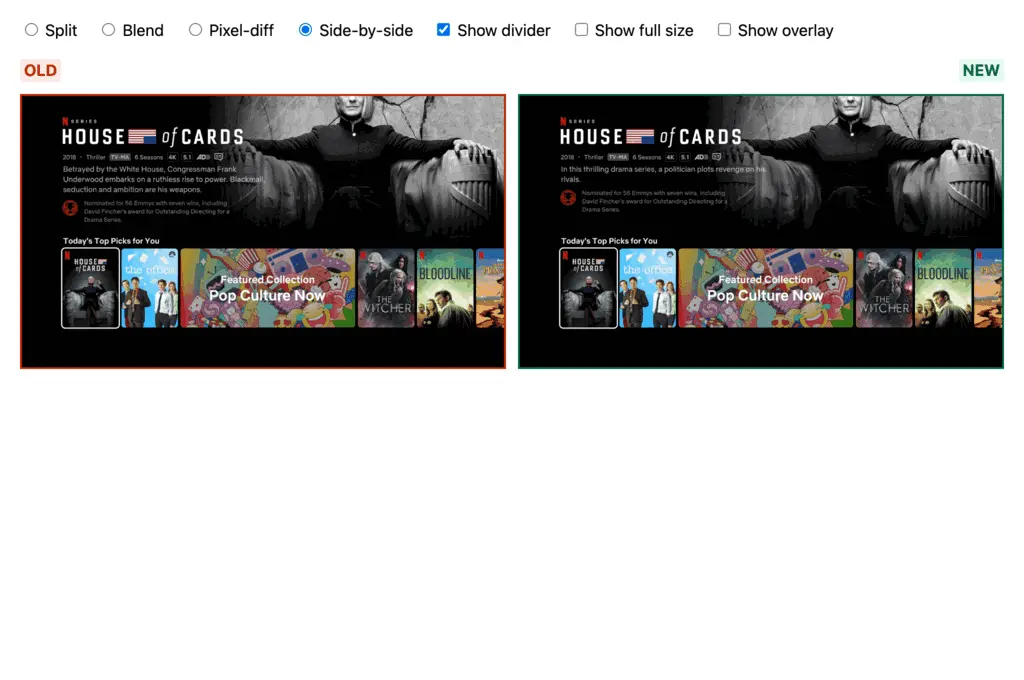
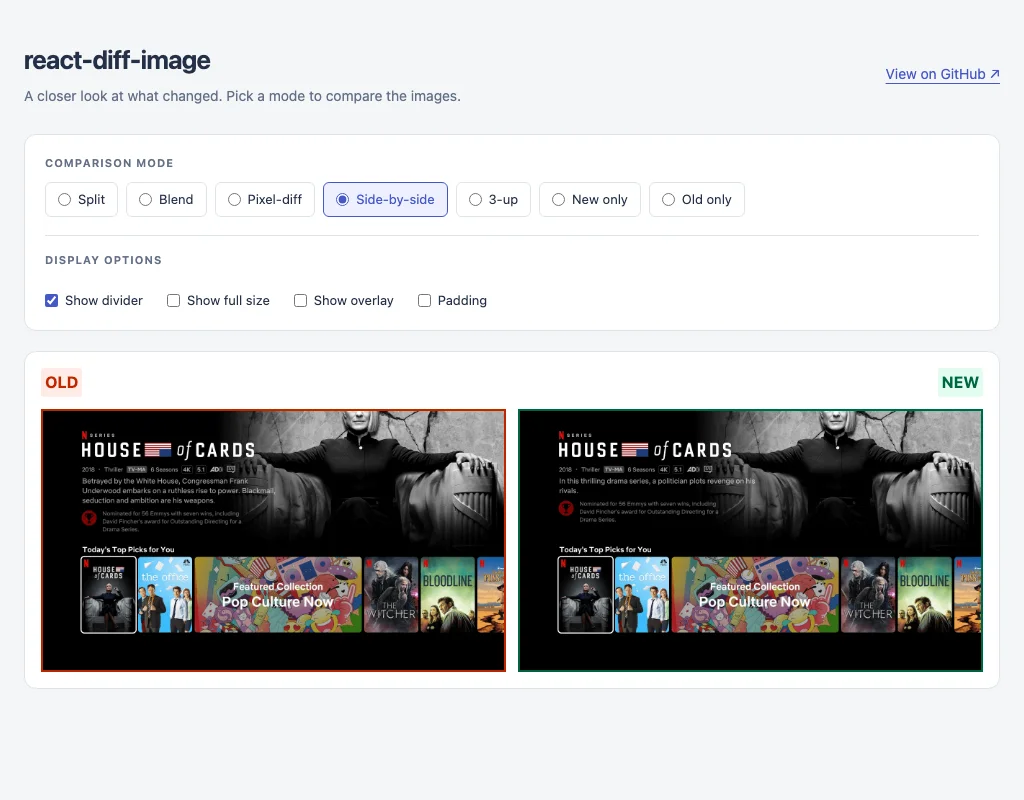
style: polish demo and refresh screenshots (#7)
Add a compact header, grouped comparison controls, and a subtle frame to
the demo. The layout adapts to narrow screens and the system color
scheme, with full-size images scrolling inside the preview.

Refresh all eleven README screenshots and add `perf/screenshots.mjs` to
regenerate them with Playwright and cwebp.

Validation: demo build, TypeScript, lint, formatting, all seven browser
tests, and screenshot generation with mobile overflow checks passed. The
required pre-push matrix also passed across Node 24 and 26 and React
16.14, 17, and 18.

diff --git a/src/demo/index.tsx b/src/demo/index.tsx
@@ -14,70 +14,86 @@ document.addEventListener("DOMContentLoaded", () => {
 function App() {
     const [config, setConfig] = useState<Omit<ImageDiffProps, "url">>(DEFAULT_PROPS);
     return (
-        <div>
-            <div style={{ display: "flex", flexWrap: "wrap", gap: 20, marginBottom: 20, whiteSpace: "nowrap" }}>
-                {(
-                    [
-                        ...MODES,
-                        { label: "New only", value: "new-only" },
-                        { label: "Old only", value: "old-only" },
-                    ] satisfies typeof MODES
-                ).map(({ label, value }) => (
-                    <label key={value}>
+        <main className="demo">
+            <header className="demo-header">
+                <div>
+                    <h1>react-diff-image</h1>
+                    <p>A closer look at what changed. Pick a mode to compare the images.</p>
+                </div>
+                <a href="https://github.com/ianobermiller/react-diff-image">View on GitHub ↗</a>
+            </header>
+
+            <div className="demo-controls">
+                <fieldset className="demo-modes">
+                    <legend>Comparison mode</legend>
+                    {(
+                        [
+                            ...MODES,
+                            { label: "New only", value: "new-only" },
+                            { label: "Old only", value: "old-only" },
+                        ] satisfies typeof MODES
+                    ).map(({ label, value }) => (
+                        <label className="demo-mode" key={value}>
+                            <input
+                                checked={config.mode === value}
+                                name="mode"
+                                onChange={() => {
+                                    setConfig((prev) => ({ ...prev, mode: value }));
+                                }}
+                                type="radio"
+                            />{" "}
+                            {label}
+                        </label>
+                    ))}
+                </fieldset>
+                <fieldset className="demo-options">
+                    <legend>Display options</legend>
+                    <label>
                         <input
-                            checked={config.mode === value}
-                            name="mode"
+                            checked={config.showDivider}
                             onChange={() => {
-                                setConfig((prev) => ({ ...prev, mode: value }));
+                                setConfig((prev) => ({ ...prev, showDivider: !prev.showDivider }));
                             }}
-                            type="radio"
+                            type="checkbox"
                         />{" "}
-                        {label}
+                        Show divider
                     </label>
-                ))}
-                <label>
-                    <input
-                        checked={config.showDivider}
-                        onChange={() => {
-                            setConfig((prev) => ({ ...prev, showDivider: !prev.showDivider }));
-                        }}
-                        type="checkbox"
-                    />{" "}
-                    Show divider
-                </label>
-                <label>
-                    <input
-                        checked={config.showFullSize}
-                        onChange={() => {
-                            setConfig((prev) => ({ ...prev, showFullSize: !prev.showFullSize }));
-                        }}
-                        type="checkbox"
-                    />{" "}
-                    Show full size
-                </label>
-                <label>
-                    <input
-                        checked={config.showOverlay}
-                        onChange={() => {
-                            setConfig((prev) => ({ ...prev, showOverlay: !prev.showOverlay }));
-                        }}
-                        type="checkbox"
-                    />{" "}
-                    Show overlay
-                </label>
-                <label>
-                    <input
-                        checked={config.hasPadding}
-                        onChange={() => {
-                            setConfig((prev) => ({ ...prev, hasPadding: !prev.hasPadding }));
-                        }}
-                        type="checkbox"
-                    />{" "}
-                    Padding
-                </label>
+                    <label>
+                        <input
+                            checked={config.showFullSize}
+                            onChange={() => {
+                                setConfig((prev) => ({ ...prev, showFullSize: !prev.showFullSize }));
+                            }}
+                            type="checkbox"
+                        />{" "}
+                        Show full size
+                    </label>
+                    <label>
+                        <input
+                            checked={config.showOverlay}
+                            onChange={() => {
+                                setConfig((prev) => ({ ...prev, showOverlay: !prev.showOverlay }));
+                            }}
+                            type="checkbox"
+                        />{" "}
+                        Show overlay
+                    </label>
+                    <label>
+                        <input
+                            checked={config.hasPadding}
+                            onChange={() => {
+                                setConfig((prev) => ({ ...prev, hasPadding: !prev.hasPadding }));
+                            }}
+                            type="checkbox"
+                        />{" "}
+                        Padding
+                    </label>
+                </fieldset>
             </div>
 
-            <ImageDiff {...config} url="/diff.webp" />
-        </div>
+            <div className="demo-preview">
+                <ImageDiff {...config} style={{ overflow: "auto" }} url="/diff.webp" />
+            </div>
+        </main>
     );
 }

diff --git a/src/demo/public/index.html b/src/demo/public/index.html
@@ -5,16 +5,170 @@
         <meta name="viewport" content="width=device-width, initial-scale=1.0" />
         <title>react-diff-image demo</title>
         <style>
+            :root {
+                color-scheme: light dark;
+                font-family: -apple-system, BlinkMacSystemFont, "Segoe UI", sans-serif;
+                color: #243047;
+                background: #f5f6f8;
+                --surface: #fff;
+                --border: #dfe3e9;
+                --muted: #637086;
+                --accent: #4558c9;
+                --selected: #eef0ff;
+            }
+
             body {
                 margin: 0;
+                padding: 40px 24px;
+                line-height: 1.5;
+            }
+
+            .demo {
+                max-width: 1200px;
+                margin: 0 auto;
+            }
+
+            .demo-header {
+                display: flex;
+                align-items: center;
+                justify-content: space-between;
+                gap: 24px;
+                margin-bottom: 28px;
+            }
+
+            h1 {
+                margin: 0 0 6px;
+                font-size: 26px;
+                font-weight: 650;
+                letter-spacing: -0.8px;
+            }
+
+            p {
+                margin: 0;
+                color: var(--muted);
+                font-size: 14px;
+            }
+
+            a {
+                color: var(--accent);
+                font-size: 14px;
+                text-underline-offset: 4px;
+                white-space: nowrap;
+            }
+
+            .demo-controls,
+            .demo-preview {
+                border: 1px solid var(--border);
+                border-radius: 12px;
+                background: var(--surface);
+                box-shadow: 0 2px 6px #00000004;
+            }
+
+            .demo-controls {
                 padding: 20px;
-                font-family: system-ui;
+                margin-bottom: 20px;
+            }
+
+            fieldset {
+                display: flex;
+                flex-wrap: wrap;
+                gap: 8px;
+                min-width: 0;
+                margin: 0;
+                padding: 0;
+                border: 0;
+            }
+
+            legend {
+                margin-bottom: 10px;
+                padding: 0;
+                color: var(--muted);
+                font-size: 11px;
+                font-weight: 650;
+                letter-spacing: 1px;
+                text-transform: uppercase;
+            }
+
+            label {
+                display: inline-flex;
+                align-items: center;
+                gap: 7px;
+                font-size: 13px;
+                cursor: pointer;
+            }
+
+            input {
+                margin: 0;
+                accent-color: var(--accent);
+            }
+
+            .demo-mode {
+                padding: 7px 12px;
+                border: 1px solid var(--border);
+                border-radius: 6px;
+            }
+
+            .demo-mode:hover {
+                background: var(--selected);
+            }
+
+            .demo-mode:has(:checked) {
+                color: var(--accent);
+                border-color: var(--accent);
+                background: var(--selected);
+            }
+
+            :focus-visible {
+                outline: 2px solid var(--accent);
+                outline-offset: 4px;
+            }
+
+            .demo-options {
+                gap: 12px 24px;
+                margin-top: 18px;
+                padding-top: 16px;
+                border-top: 1px solid var(--border);
+            }
+
+            .demo-options legend {
+                float: left;
+                width: 100%;
+            }
+
+            .demo-preview {
+                overflow: hidden;
+                padding: 16px;
+            }
+
+            @media (max-width: 600px) {
+                body {
+                    padding: 24px 12px;
+                }
+
+                .demo-header {
+                    align-items: flex-start;
+                    flex-direction: column;
+                    gap: 12px;
+                }
+
+                .demo-controls {
+                    padding: 16px;
+                }
+
+                .demo-preview {
+                    padding: 8px;
+                }
             }
 
             @media (prefers-color-scheme: dark) {
-                body {
-                    background-color: #333;
-                    color: #fff;
+                :root {
+                    color: #e3e7ef;
+                    background: #171b23;
+                    --surface: #202631;
+                    --border: #374151;
+                    --muted: #a0adc0;
+                    --accent: #a5b0ff;
+                    --selected: #2d3450;
                 }
             }
         </style>
